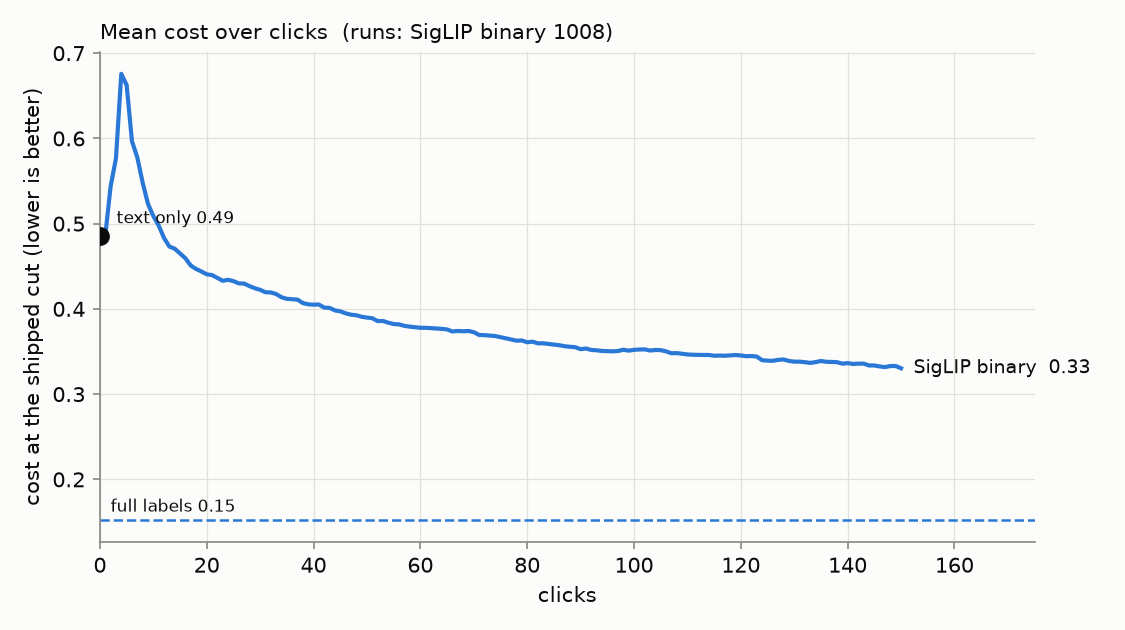
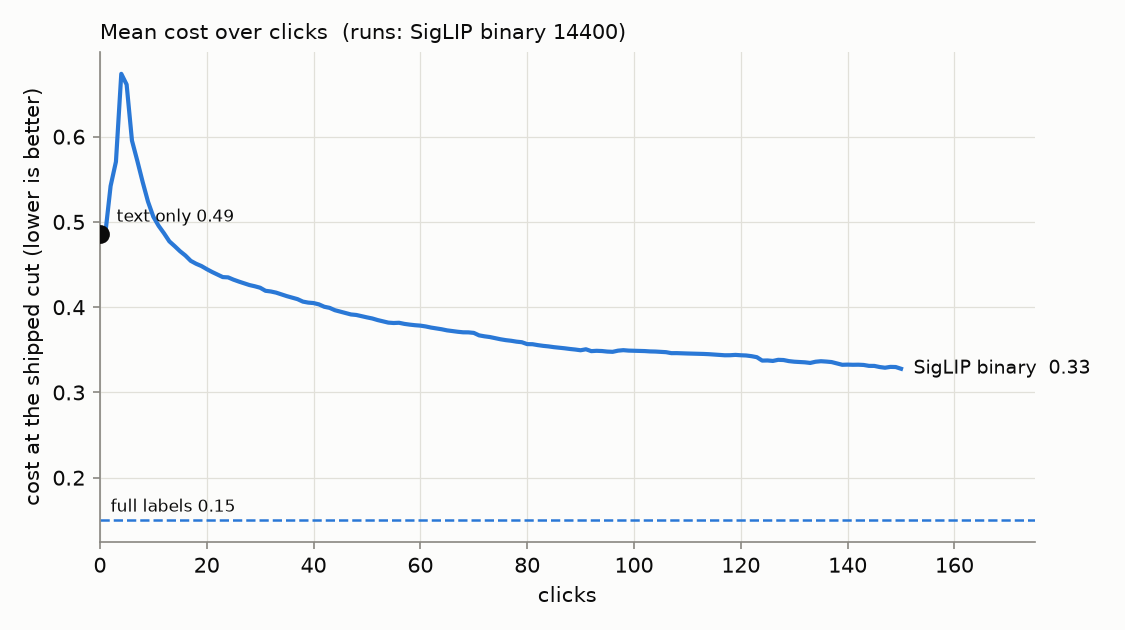
#4159: Binary Photo at 100 seeds; harmful image-class pairs for #4179
Refresh the Binary Photo report on 100 seeds (14,400 runs). The headline
holds and is now precise (per-seed sd of the final cost 0.007). Images:
592 harmful and 330 helpful past |z| > 3 against 34-39 / 4-8 shuffled, and
the effect replicates across seed halves (r = 0.62). analyze.py writes
harmful_pairs.csv: 1,672 (image, class, label) pairs past z < -3 (97 by
chance), the hand-review list for #4179.

Claude-Session: https://claude.ai/code/session_01Q8KvKjgBL7pTwLPQT1g77M

diff --git a/scripts/experiments/state_of_app/analyze.py b/scripts/experiments/state_of_app/analyze.py
@@ -11,6 +11,8 @@ Reads one State of the App run (``launch.sh``) and writes, under ``--out``:
   that the click is credited with.
 * ``images.csv`` / ``image_detector.csv`` -- the influence rolled up per image,
   and per image x detector, early and late separately.
+* ``harmful_pairs.csv`` -- the (image, class, label) pairs that hurt past
+  -``Z_FLAG``, net of cell, label and phase: the hand-review list (#4179).
 * ``summary.md`` -- the tables a reader starts from.
 
 **How a click is credited (owner, 2026-09-23).** The harness scores the test
@@ -321,6 +323,22 @@ def _resid_z(inf: pd.DataFrame) -> pd.DataFrame:
     return pd.DataFrame({"resid": g["mean"], "resid_z": z.where(ok)})
 
 
+def harmful_pairs(inf: pd.DataFrame) -> pd.DataFrame:
+    """Per image x class x label, the net credit (``resid``) and its z; the pairs past -``Z_FLAG``.
+
+    An image hurts particular classes, not everything, so a hand review (#4179)
+    works from this list rather than from ``images.csv``: each row is one
+    question, "is this image really a <label> for <class>?", strongest first.
+    """
+    inf = inf.assign(when=np.where(inf["t"] <= EARLY, "early", np.where(inf["t"] > LATE, "late", "mid")))
+    inf["resid"] = inf["help_cost"] - inf.groupby(_BUCKET)["help_cost"].transform("mean")
+    g = inf.groupby(["image_id", "class", "label"])["resid"].agg(["mean", "std", "size"])
+    g = g[(g["size"] >= MIN_OBS_Z) & (g["std"] > 0)]
+    g["z"] = g["mean"] / (g["std"] / np.sqrt(g["size"]))
+    out = g[g["z"] < -Z_FLAG].rename(columns={"mean": "resid", "size": "n_clicks"}).reset_index()
+    return out.sort_values("z")
+
+
 def image_null(inf: pd.DataFrame, reps: int = 5, seed: int = 0) -> tuple[int, int, list[tuple[int, int]]]:
     """Images flagged helpful / harmful, and the same counts with images shuffled within buckets."""
 
@@ -451,6 +469,8 @@ def main() -> int:
     inf.to_csv(args.out / "influence.csv", index=False)
     img.to_csv(args.out / "images.csv", index=False)
     det.to_csv(args.out / "image_detector.csv", index=False)
+    if not inf.empty:
+        harmful_pairs(inf).to_csv(args.out / "harmful_pairs.csv", index=False)
     summary(cells, img, det, args.out, image_null(inf) if not inf.empty else None)
     print(f"{len(cells)} runs, {len(inf)} credited clicks, {len(img)} images -> {args.out}")
     return 0

diff --git a/docs/experiments/2026-09-24-state-of-the-app-binary-photo/REPORT.md b/docs/experiments/2026-09-24-state-of-the-app-binary-photo/REPORT.md
@@ -3,8 +3,8 @@
 **Issue:** #4159. **Recipe:** `.claude/skills/state-of-the-app/SKILL.md`.
 **Path:** SigLIP whole-image embedding, binary (Good/Bad) votes.
 **Bench:** `coco_quarry`, all 49 classes at every size, which is 144 cells.
-**Seeds:** 7 (1008 runs). The companion report is *State of the App: Region
-Photo*.
+**Seeds:** 100 (14,400 runs). The companion report is *State of the App:
+Region Photo*.
 
 A **review**, not an experiment: the app as it ships, the way a user meets it.
 The user types a query, sees the text sort, then votes for up to 150 clicks
@@ -16,7 +16,7 @@ threshold.
 
 ## Headline
 
-| mean over 1008 runs | text only | after 150 clicks | full labels |
+| mean over 14,400 runs | text only | after 150 clicks | full labels |
 |---|---:|---:|---:|
 | **cost** | 0.49 | **0.33** | 0.15 |
 | **F1** | 0.02 | **0.05** | — |
@@ -25,17 +25,19 @@ threshold.
 
 1. **Clicking roughly halves the distance to the ceiling, and no more.** Cost
    falls from 0.49 to 0.33, against a ceiling of 0.15: 150 clicks close 47% of
-   the gap between typing the query and having every label.
+   the gap between typing the query and having every label. At 100 seeds this
+   is precise: the per-seed mean of the final cost has a standard deviation of
+   0.007 (0.31 to 0.35 across seeds).
 2. **The first detector is worse than the text sort.** Mean cost jumps from 0.49
-   to **0.68 at click 4**, when the first Good and Bad train a head, and does not
-   beat the text sort again until **click 12**. A user who stops after a few
+   to **0.67 at click 4**, when the first Good and Bad train a head, and does not
+   beat the text sort again until **click 13**. A user who stops after a few
    clicks has a worse result than if they had not clicked at all.
 3. **The clicks find few positives.** The median run finds **4** positives in
-   150 clicks, of about 50 in its training half. 30 runs never find one, so no
-   detector is ever trained, all of them on small-band cells: `chair@small` in
-   all 7 seeds, `knife@small` in 6, `bench@small`, `laptop@small` and
-   `spoon@small` in 3, and five more cells once or twice. The easy classes find
-   far more: `tennis racket` 31, `baseball bat` 29, `skis` 26.
+   150 clicks, of about 50 in its training half. **392 runs (2.7%) never find
+   one**, so no detector is ever trained, all of them in 16 small-band cells:
+   `chair@small` in all 100 seeds, `knife@small` in 86, `bowl@small` 40,
+   `laptop@small` 36, `bench@small` 27, `person@small` 25 and `tv@small` 23. The
+   easy classes find far more: `tennis racket` 32, `skis` 26, `baseball bat` 25.
 4. **The shipped threshold buys recall with precision.** Median recall at 150
    clicks is **0.96**; median precision is **0.02**. At about 1% prevalence, a
    user sees roughly 50 false positives for every true one. Cost rewards that
@@ -47,37 +49,38 @@ threshold.
 
 | band (mean) | text only | after 150 clicks | full labels | F1 | positives found |
 |---|---:|---:|---:|---:|---:|
-| large | 0.41 | **0.19** | 0.057 | 0.062 | 8.0 |
-| medium | 0.47 | **0.31** | 0.17 | 0.046 | 6.8 |
-| small | 0.58 | **0.50** | 0.24 | 0.033 | 5.5 |
+| large | 0.41 | **0.19** | 0.056 | 0.062 | 8.0 |
+| medium | 0.47 | **0.31** | 0.16 | 0.045 | 6.3 |
+| small | 0.58 | **0.50** | 0.24 | 0.034 | 5.5 |
 
 **Well:** sports equipment and other objects with a distinctive shape.
 
 | class | text only | after 150 | full labels | positives found |
 |---|---:|---:|---:|---:|
-| baseball bat | 0.46 | **0.082** | 0.018 | 29 |
-| skis | 0.43 | **0.089** | 0.015 | 26 |
-| snowboard | 0.34 | **0.10** | 0.014 | 14 |
-| surfboard | 0.39 | **0.11** | 0.016 | 7.8 |
-| tennis racket | 0.43 | **0.10** | 0.013 | 31 |
+| skis | 0.43 | **0.091** | 0.016 | 26 |
+| tennis racket | 0.44 | **0.092** | 0.012 | 32 |
+| snowboard | 0.34 | **0.093** | 0.015 | 14 |
+| baseball bat | 0.46 | **0.097** | 0.017 | 25 |
+| surfboard | 0.39 | **0.11** | 0.018 | 6.6 |
 
 **Poorly:** furniture, tableware and people, all of them things that fill
 scenes rather than stand out in them.
 
 | class | text only | after 150 | full labels | positives found |
 |---|---:|---:|---:|---:|
-| chair | 0.74 | **0.78** | 0.36 | 2.8 |
-| bench | 0.75 | **0.66** | 0.31 | 3.6 |
-| vase or potted plant | 0.54 | **0.64** | 0.31 | 3.2 |
-| knife | 0.69 | **0.53** | 0.14 | 2.8 |
-| bottle | 0.70 | **0.55** | 0.29 | 3.4 |
-| person | 0.74 | **0.53** | 0.17 | 3.2 |
+| chair | 0.74 | **0.77** | 0.36 | 2.7 |
+| bench | 0.75 | **0.65** | 0.30 | 3.1 |
+| vase or potted plant | 0.55 | **0.58** | 0.31 | 3.3 |
+| person | 0.74 | **0.54** | 0.17 | 3.6 |
+| knife | 0.70 | **0.54** | 0.13 | 2.9 |
+| bowl | 0.52 | **0.53** | 0.23 | 3.1 |
 
-- **Clicking made things worse than typing** in 122 of 1008 runs (12%). Averaged
-  over seeds, four classes end above their text score: `vase or potted plant`
-  (+0.09), `parking meter` (+0.05), `stop sign` (+0.04) and `chair` (+0.04).
+- **Clicking made things worse than typing** in 1,762 of 14,400 runs (12%).
+  Averaged over seeds, four classes end above their text score: `stop sign`
+  (+0.047), `vase or potted plant` (+0.029), `parking meter` (+0.025) and
+  `chair` (+0.024).
 - **Headroom** (final − ceiling) is largest where positives are hardest to find:
-  `chair` 0.42, `knife` 0.40, `person` 0.35, `bench` 0.35. The head could learn
+  `chair` 0.41, `knife` 0.40, `person` 0.37, `bench` 0.35. The head could learn
   these classes with the labels; the loop never collects them. That makes the
   loop, not the class, the limit.
 
@@ -96,39 +99,51 @@ each run's net change.
 
 | mean cost removed per click | clicks 1–30 | clicks 31–90 | clicks 91–150 |
 |---|---:|---:|---:|
-| a **positive** (Good) | **−0.027** (hurts) | **+0.015** (helps) | +0.001 |
-| a negative (Bad) | +0.005 | +0.001 | +0.001 |
+| a **positive** (Good) | **−0.028** (hurts) | **+0.016** (helps) | +0.001 |
+| a negative (Bad) | +0.005 | +0.001 | +0.0005 |
 
 An early positive hurts on average because it trains the first detector, and
 that detector is worse than the text sort (finding 2). The same positive helps
 once there are enough labels to fit a reasonable head.
 
-**Some images hurt in their own right; few help in their own right.** Early
-positives hurt and some classes are harder than others, so an image's raw mean
-credit mostly records *when* and *where* it was clicked. The test below nets
-both out: each click's credit minus the mean of every click with the same cell,
-label and phase. Of 21,880 clicked images, 4,742 were clicked 10 or more times:
+**Individual images matter, in both directions, and most of it is harm.** An
+image's raw mean credit mostly records *when* and *where* it was clicked, since
+early positives hurt and some classes are harder than others. So each click's
+credit is netted of the mean of every click with the same cell, label and
+phase. At 100 seeds, 22,388 of 23,472 clicked images were clicked 10 or more
+times (median 83):
 
 | images past \|z\| > 3 | observed | shuffled images (5 draws) |
 |---|---:|---:|
-| **harmful** | **39** | 9–12 |
-| helpful | 11 | 3–8 |
+| **harmful** | **592** | 34–39 |
+| **helpful** | **330** | 4–8 |
 
-About 28 harmful images are beyond chance; the helpful excess is too small to
-name individual images. The harmful ones share a pattern: each hurts **one
-class, as a negative, in every size band** of that class. Most are correct
-negatives from an unrelated scene, such as a bear for `kite`, cows for
-`airplane`, an elephant for `stop sign`, a horse for `tie` and zebras for
-`tennis racket`. One is not: **490264**, a negative for `fork`, shows a fork,
-which makes it a candidate label error in the bench. #4179 reviews every flagged
-image by hand.
+The effect belongs to the image: an image's net effect in the even seeds
+predicts it in the odd seeds (r = 0.62 over 20,801 images).
 
-See [images.md](images.md) for the 12 strongest in each direction, with
-thumbnails.
+- **Harm is specific to a class.** Taken per image and class, 1,672 pairs hurt
+  past z < −3, against 97 in a shuffle; past z < −5 it is 650 against 1. **83%
+  are the image clicked as a negative.** Most often the class is `snowboard`
+  (186 pairs), `skis` (115), `keyboard` (78), `microwave` (73) or `stop sign`
+  (61).
+- **Many are correct negatives from a related scene**: at 7 seeds, a bear for
+  `kite`, cows for `airplane`, an elephant for `stop sign`. A Bad vote on a
+  scene that shares the class's context teaches the head the wrong contrast.
+- **Some are label errors.** 490264, a negative for `fork`, shows a fork. The
+  280 harmful pairs clicked as *positives* are candidates too: a positive that
+  reliably hurts may not be one.
+- **Caveat on the z-scores:** the same image often turns up at the same point
+  in a class's runs across seeds, so its repeats are not fully independent and
+  a single z overstates certainty. The shuffled null and the split-half
+  correlation are the evidence to lean on.
+
+The pair list is `analysis-binary/harmful_pairs.csv`. #4179 reviews it by hand,
+strongest first. See [images.md](images.md) for the 12 strongest images in each
+direction, with thumbnails.
 
 ## Flagged regimes
 
-- **Never found a positive:** the 30 runs above, all small-band cells.
+- **Never found a positive:** the 392 runs above, all small-band cells.
 - **Positive exhaustion (#4121)** did not arise. Runs find too few positives to
   run out.
 
@@ -149,8 +164,10 @@ thumbnails.
   curves for every cell.
 - **Shipped defaults** throughout: text opening, fused threshold, linear SVM
   head, 150 clicks.
-- **CPU count:** seeds 0–2 and part of 3–6 used 2 CPUs; the rest used 1. Thread count changes low-order
-  floating-point digits, and so can change individual picks, but a check on one
+- **CPU count:** every run had a 2-CPU allocation (the partition allocates
+  whole cores). Seeds 23–99 ran two cells side by side in each allocation,
+  so those runs had about one core each. Thread count changes low-order
+  floating-point digits and so can change individual picks, but a check on one
   cell gave identical costs at clicks 25, 50 and 150.
 
 ```bash

diff --git a/docs/experiments/2026-09-24-state-of-the-app-binary-photo/images.md b/docs/experiments/2026-09-24-state-of-the-app-binary-photo/images.md
@@ -1,35 +1,35 @@
-Images tested (clicked 10+ times): 4742 of 21880; 50 past |z| > 3. *Net* is the mean cost removed per click beyond what an average click with the same cell, label and phase removed; *z* is that in standard errors.
+Images tested (clicked 10+ times): 22388 of 23472; 922 past |z| > 3. *Net* is the mean cost removed per click beyond what an average click with the same cell, label and phase removed; *z* is that in standard errors.
 
 ### Most helpful
 
 | image | id | clicks | detectors | as positive | net / click | z | raw / click | early | late |
 |---|---|---:|---:|---:|---:|---:|---:|---:|---:|
-| ![235557](images/235557.jpg) | 235557 | 10 | 5 | 0 | +0.010 | +3.8 | +0.004 | +0.001 | +0.002 |
-| ![406073](images/406073.jpg) | 406073 | 13 | 6 | 0 | +0.088 | +3.8 | +0.099 | +0.129 | +0.000 |
-| ![363957](images/363957.jpg) | 363957 | 15 | 14 | 1 | +0.012 | +3.6 | +0.014 | +0.031 | +0.013 |
-| ![286058](images/286058.jpg) | 286058 | 45 | 23 | 0 | +0.005 | +3.4 | +0.002 | +0.000 | +0.004 |
-| ![138956](images/138956.jpg) | 138956 | 12 | 10 | 0 | +0.014 | +3.2 | +0.015 |  | +0.014 |
-| ![233365](images/233365.jpg) | 233365 | 12 | 10 | 3 | +0.006 | +3.2 | +0.006 | +0.022 | +0.003 |
-| ![5210](images/5210.jpg) | 5210 | 10 | 8 | 0 | +0.028 | +3.2 | +0.030 | +0.063 | +0.014 |
-| ![319662](images/319662.jpg) | 319662 | 12 | 12 | 1 | +0.009 | +3.1 | +0.010 |  | +0.005 |
-| ![347210](images/347210.jpg) | 347210 | 33 | 19 | 2 | +0.008 | +3.1 | +0.003 | +0.001 | +0.006 |
-| ![124889](images/124889.jpg) | 124889 | 11 | 5 | 0 | +0.010 | +3.1 | -0.002 | -0.003 | +0.005 |
-| ![108283](images/108283.jpg) | 108283 | 12 | 9 | 0 | +0.011 | +3.1 | +0.002 | -0.002 | +0.010 |
-| ![153476](images/153476.jpg) | 153476 | 16 | 7 | 0 | +0.133 | +3.0 | +0.142 | +0.187 | -0.005 |
+| ![272745](images/272745.jpg) | 272745 | 211 | 29 | 3 | +0.095 | +9.1 | +0.101 | +0.192 | +0.003 |
+| ![111933](images/111933.jpg) | 111933 | 183 | 35 | 0 | +0.123 | +9.1 | +0.136 | +0.181 | -0.002 |
+| ![170700](images/170700.jpg) | 170700 | 148 | 31 | 2 | +0.081 | +9.0 | +0.090 | +0.143 | +0.007 |
+| ![59202](images/59202.jpg) | 59202 | 227 | 27 | 5 | +0.086 | +8.9 | +0.093 | +0.179 | -0.001 |
+| ![296176](images/296176.jpg) | 296176 | 208 | 30 | 52 | +0.074 | +8.6 | +0.098 | +0.131 | -0.000 |
+| ![134113](images/134113.jpg) | 134113 | 283 | 59 | 0 | +0.035 | +8.1 | +0.043 | +0.077 | +0.002 |
+| ![220182](images/220182.jpg) | 220182 | 141 | 37 | 53 | +0.022 | +8.1 | -0.000 | +0.011 | -0.002 |
+| ![152265](images/152265.jpg) | 152265 | 231 | 45 | 0 | +0.060 | +7.6 | +0.073 | +0.115 | +0.001 |
+| ![425522](images/425522.jpg) | 425522 | 169 | 41 | 1 | +0.070 | +7.6 | +0.074 | +0.149 | +0.000 |
+| ![461458](images/461458.jpg) | 461458 | 268 | 47 | 0 | +0.078 | +7.3 | +0.085 | +0.127 | +0.001 |
+| ![133115](images/133115.jpg) | 133115 | 68 | 8 | 0 | +0.103 | +7.0 | +0.109 | +0.116 | -0.036 |
+| ![557843](images/557843.jpg) | 557843 | 110 | 28 | 0 | +0.100 | +6.9 | +0.110 | +0.180 | -0.004 |
 
 ### Most harmful
 
 | image | id | clicks | detectors | as positive | net / click | z | raw / click | early | late |
 |---|---|---:|---:|---:|---:|---:|---:|---:|---:|
-| ![127110](images/127110.jpg) | 127110 | 14 | 3 | 0 | -0.044 | -13.7 | -0.025 | -0.025 |  |
-| ![268603](images/268603.jpg) | 268603 | 15 | 6 | 0 | -0.069 | -8.2 | -0.052 | -0.058 | -0.010 |
-| ![26578](images/26578.jpg) | 26578 | 11 | 4 | 0 | -0.130 | -6.5 | -0.118 | -0.146 | +0.011 |
-| ![473372](images/473372.jpg) | 473372 | 11 | 8 | 4 | -0.019 | -5.3 | -0.021 | -0.027 | -0.013 |
-| ![472841](images/472841.jpg) | 472841 | 15 | 8 | 0 | -0.058 | -4.7 | -0.048 | -0.067 | +0.002 |
-| ![497444](images/497444.jpg) | 497444 | 21 | 9 | 0 | -0.068 | -4.7 | -0.063 | -0.083 | -0.000 |
-| ![289912](images/289912.jpg) | 289912 | 23 | 6 | 11 | -0.096 | -4.4 | -0.016 | -0.026 | +0.003 |
-| ![490264](images/490264.jpg) | 490264 | 16 | 8 | 0 | -0.198 | -4.1 | -0.195 | -0.252 | -0.031 |
-| ![556954](images/556954.jpg) | 556954 | 27 | 15 | 1 | -0.010 | -4.0 | -0.015 | -0.026 | -0.008 |
-| ![394504](images/394504.jpg) | 394504 | 13 | 8 | 4 | -0.020 | -3.9 | -0.030 | -0.045 | +0.001 |
-| ![186177](images/186177.jpg) | 186177 | 15 | 8 | 0 | -0.108 | -3.8 | -0.096 | -0.165 | +0.001 |
-| ![404194](images/404194.jpg) | 404194 | 10 | 6 | 3 | -0.017 | -3.8 | -0.023 | -0.045 | -0.007 |
+| ![168879](images/168879.jpg) | 168879 | 157 | 10 | 0 | -0.098 | -39.0 | -0.077 | -0.080 | +0.002 |
+| ![268603](images/268603.jpg) | 268603 | 187 | 27 | 0 | -0.067 | -23.4 | -0.051 | -0.061 | -0.004 |
+| ![26578](images/26578.jpg) | 26578 | 119 | 16 | 0 | -0.134 | -22.4 | -0.122 | -0.144 | +0.003 |
+| ![528011](images/528011.jpg) | 528011 | 116 | 15 | 0 | -0.067 | -20.4 | -0.056 | -0.065 | +0.013 |
+| ![497444](images/497444.jpg) | 497444 | 259 | 38 | 0 | -0.055 | -15.4 | -0.051 | -0.064 | +0.002 |
+| ![127110](images/127110.jpg) | 127110 | 171 | 15 | 0 | -0.036 | -15.2 | -0.020 | -0.021 | -0.010 |
+| ![94162](images/94162.jpg) | 94162 | 134 | 21 | 0 | -0.055 | -14.8 | -0.042 | -0.052 | +0.006 |
+| ![121461](images/121461.jpg) | 121461 | 160 | 15 | 0 | -0.069 | -14.7 | -0.057 | -0.064 | +0.006 |
+| ![472841](images/472841.jpg) | 472841 | 160 | 23 | 0 | -0.055 | -14.7 | -0.046 | -0.069 | +0.001 |
+| ![466347](images/466347.jpg) | 466347 | 261 | 52 | 6 | -0.108 | -14.3 | -0.100 | -0.172 | +0.001 |
+| ![490264](images/490264.jpg) | 490264 | 238 | 28 | 1 | -0.138 | -13.8 | -0.135 | -0.194 | +0.001 |
+| ![504810](images/504810.jpg) | 504810 | 126 | 18 | 3 | -0.050 | -13.2 | -0.035 | -0.044 | -0.002 |
